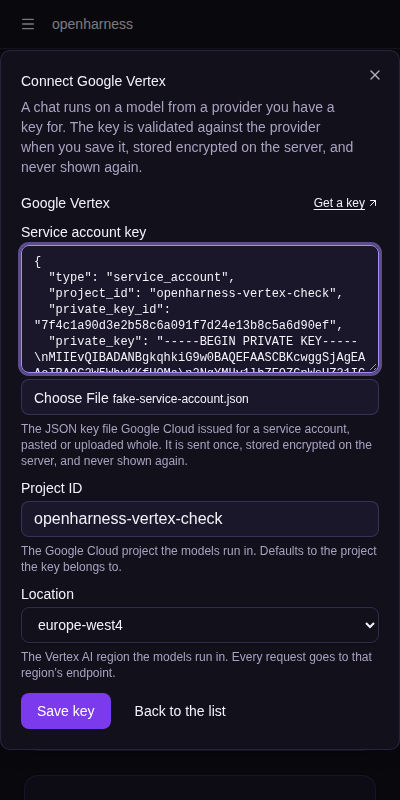
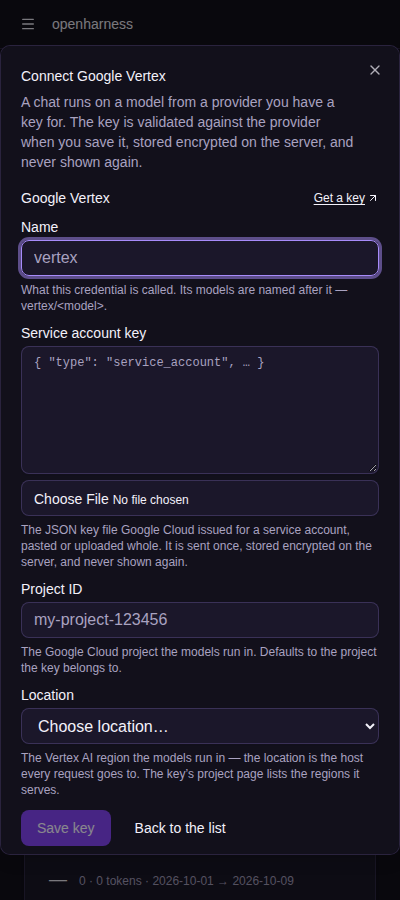
web, docs: the Vertex captures for the collapsed key field (#251)
The screenshots for the form and the listing, retaken against the collapsed
service-account field: the empty form, the summary a pasted document becomes,
and the field Replace brings back. The project id is shown as typed — it is not a
secret, and the reader has to be able to check what the document defaulted it to —
and the location's empty option names itself.

diff --git a/apps/web/src/components/providers/provider-key-form.tsx b/apps/web/src/components/providers/provider-key-form.tsx
@@ -276,6 +276,10 @@ const CREDENTIAL_FORMS: Record<ProviderCredentialType, CredentialForm> = {
       {
         name: 'project',
         label: 'Project ID',
+        // Shown as typed: a project id is not a secret, and the reader has to be able to check
+        // what the document defaulted it to (and edit it) — the default for every field is a
+        // masked one, so the ones that are not secrets say so.
+        kind: 'text',
         placeholder: 'my-project-123456',
         // The document carries a project already, and `derive` fills this in from it — a
         // service account with access to several projects may name another.
@@ -599,9 +603,7 @@ export function ProviderKeyForm({
                     which is never empty — offers an unselected row so the reader must choose
                     rather than silently saving the first option. */}
                 {field.defaultValue === undefined ? (
-                  <option value="">
-                    {field.placeholder === '' ? 'Choose…' : `Choose ${field.placeholder}…`}
-                  </option>
+                  <option value="">{`Choose ${field.label.toLowerCase()}…`}</option>
                 ) : null}
                 {(field.options ?? []).map((option) => (
                   <option key={option} value={option}>
